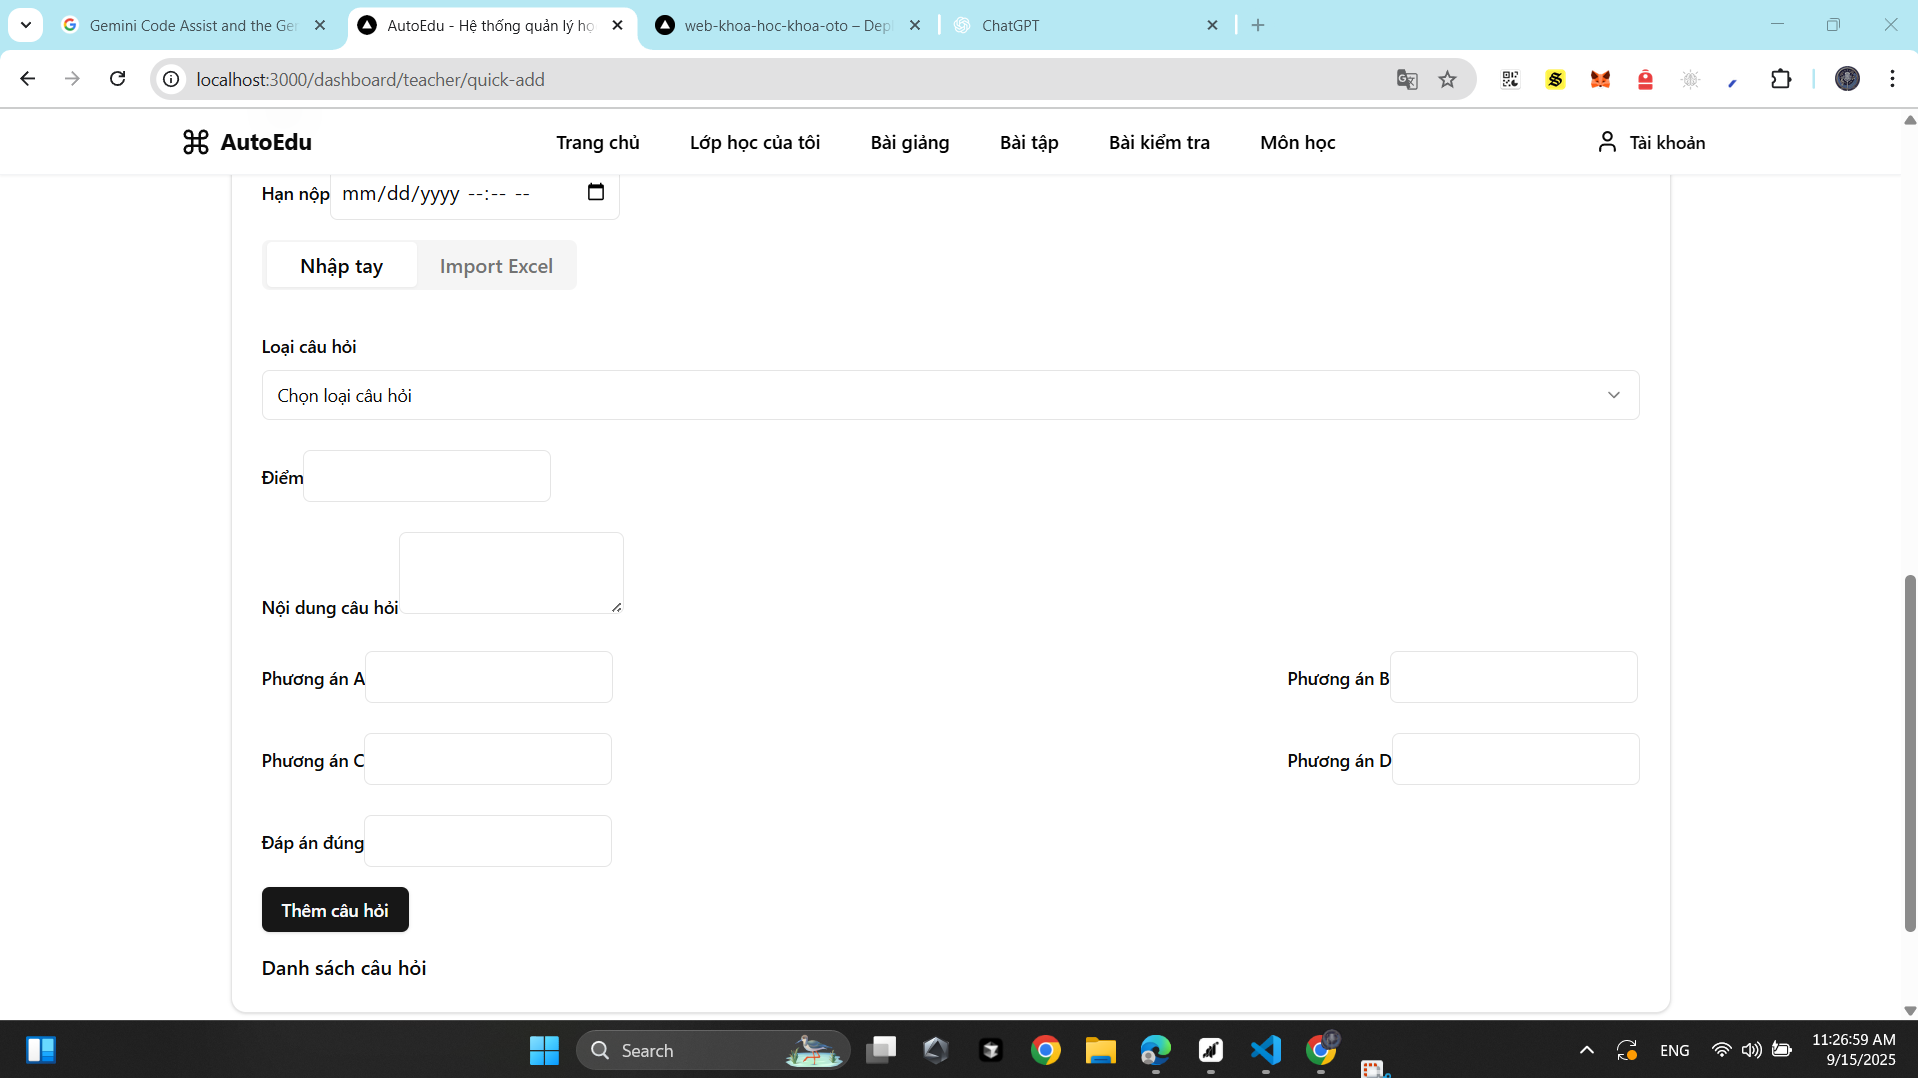
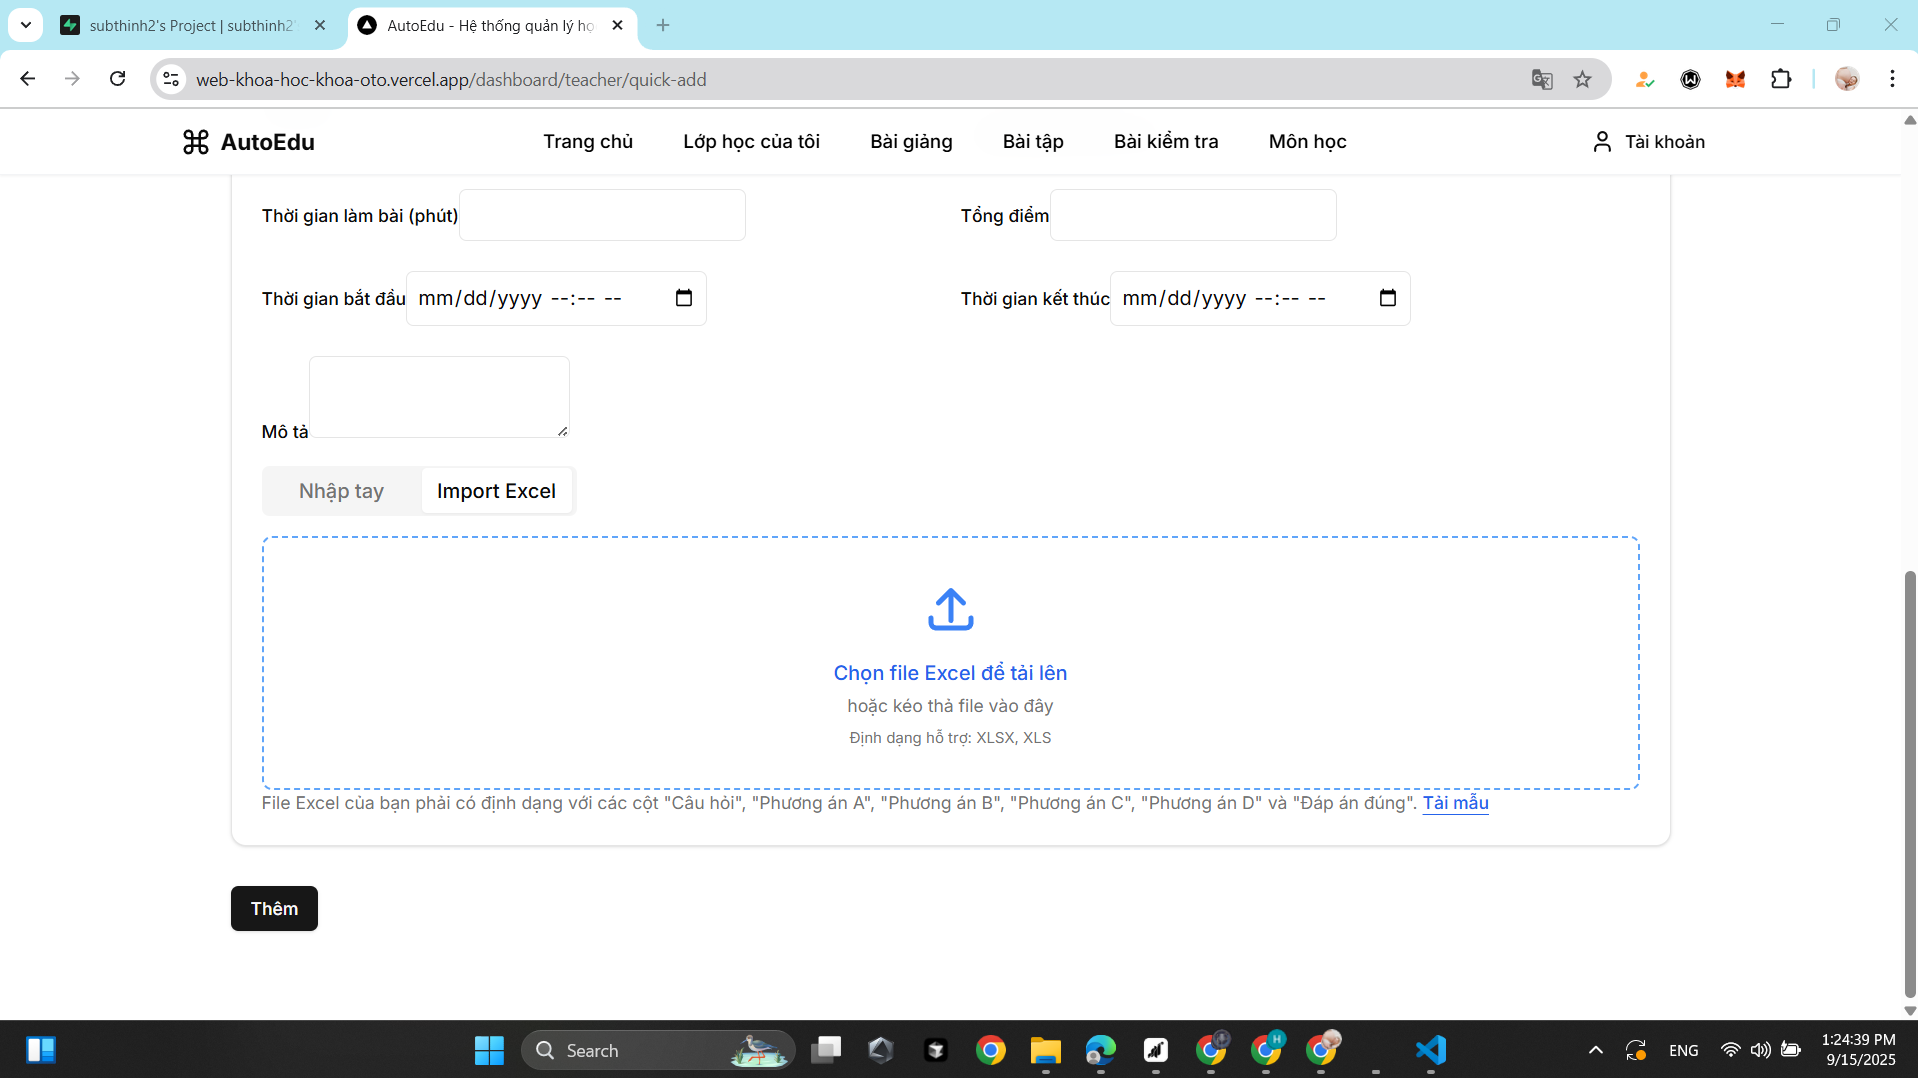
Làm nút Tải mẫu dịch xuống dưới

diff --git a/src/app/(dashboard)/dashboard/teacher/quick-add/page.tsx b/src/app/(dashboard)/dashboard/teacher/quick-add/page.tsx
@@ -434,7 +434,7 @@ export default function QuickAddPage() {
                         </div>
                       )}
                     </div>
-                    <p className="text-sm text-muted-foreground">
+                    <p className="text-sm text-muted-foreground mt-4">
                       File Excel của bạn phải có định dạng với các cột "Câu hỏi", "Phương án A", "Phương án B", "Phương án C", "Phương án D" và "Đáp án đúng".{' '}
                       <Button 
                         variant="link" 
@@ -619,7 +619,7 @@ export default function QuickAddPage() {
                         </div>
                       )}
                     </div>
-                    <p className="text-sm text-muted-foreground">
+                    <p className="text-sm text-muted-foreground mt-4">
                       File Excel của bạn phải có định dạng với các cột "Câu hỏi", "Phương án A", "Phương án B", "Phương án C", "Phương án D" và "Đáp án đúng".{' '}
                       <Button 
                         variant="link" 
